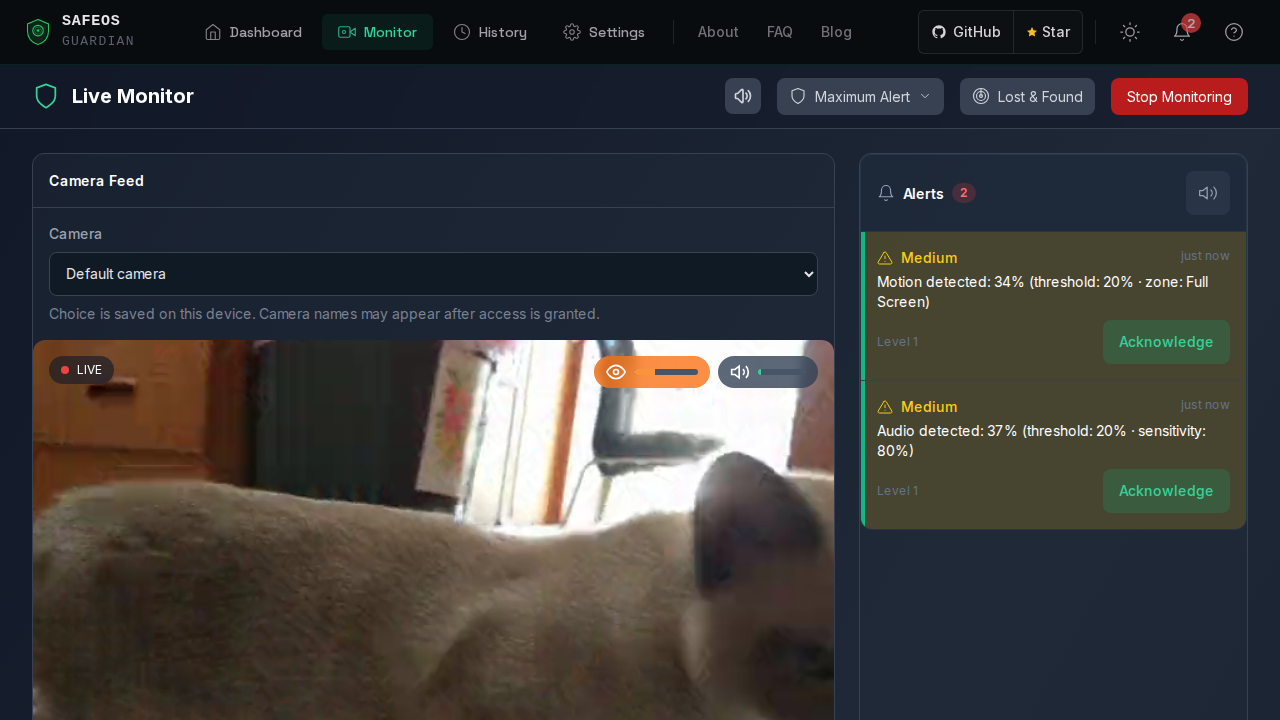
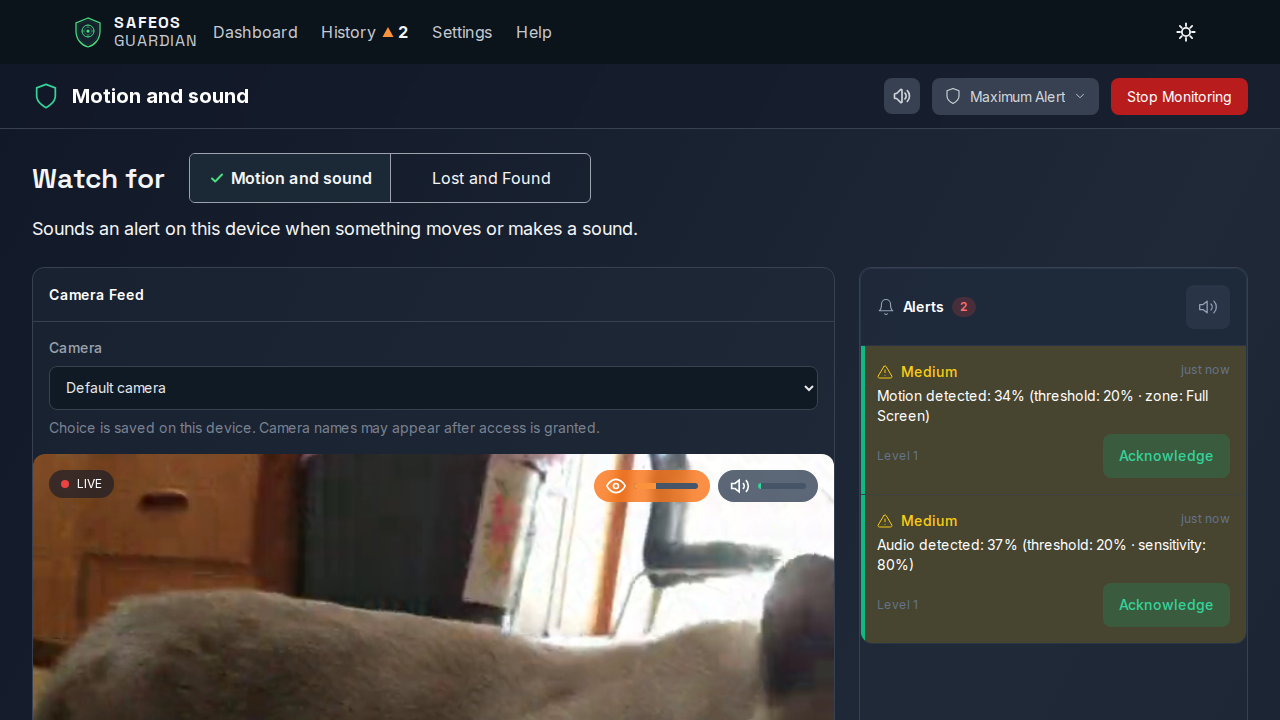
Pictures of the app's frame and the dashboard from Pictures run 44812089983

diff --git a/docs/pictures/pr-30/README.md b/docs/pictures/pr-30/README.md
@@ -1,0 +1,41 @@
+# The app's frame and the dashboard
+
+Both folders come from [Pictures run 44812089983](https://github.com/framerslab/safeos/actions/runs/44812089983) of commit 3c47d4fe8ccdbc7f8123a3cfa34f4731061cb680 and the base commit f65010dcdc2200a55507842afbd21e342e7ef901: `after/` from the run's `pictures` artifact and `before/` from its `pictures-before` artifact, each file copied byte for byte under the name the run gave it.
+
+A picture of a whole page on a phone shows the phone bar where the first screen ends, 844 px down, since the bar stays at the foot of the screen.
+
+`before/`, the base commit:
+
+- `dashboard-setup-390-light.png`: the dashboard before, 390 px, light: the number tiles, Quick Actions, the streams and system panels, under the old header and phone bar.
+- `dashboard-setup-390-dark.png`: the dashboard before, 390 px, dark.
+- `dashboard-setup-1280-light.png`: the dashboard before, 1280 px, light.
+- `dashboard-setup-1280-dark.png`: the dashboard before, 1280 px, dark.
+- `history-390-light.png`: History before, 390 px, light: the old header with the bell and the menu, and the old phone bar of Home, Monitor, History and Settings.
+- `history-1280-dark.png`: History before, 1280 px, dark: the old header with its GitHub key, the bell and the "?" key.
+- `settings-390-light.png`: Settings before, 390 px, light: the page starts at its own heading.
+- `monitor-1280-dark.png`: Motion and sound before, 1280 px, dark: the page's strip carries no name.
+
+`after/`, this pull request:
+
+- `dashboard-setup-390-light.png`: the dashboard after, 390 px, light: Not watching, Start watching, the four ways and the phone bar.
+- `dashboard-setup-390-dark.png`: the dashboard after, 390 px, dark: Not watching, Start watching, the four ways and the phone bar.
+- `dashboard-setup-1280-light.png`: the dashboard after, 1280 px, light: Not watching and Start watching beside the four ways under the app's header, and "Nothing new since you last looked." below them.
+- `dashboard-setup-1280-dark.png`: the dashboard after, 1280 px, dark: Not watching and Start watching beside the four ways under the app's header, and "Nothing new since you last looked." below them.
+- `history-390-light.png`: the app's header and phone bar on History, 390 px, light.
+- `history-1280-dark.png`: the app's header on History, 1280 px, dark.
+- `settings-390-light.png`: Settings, 390 px, light: the look row and the Help row first.
+- `monitor-1280-dark.png`: the page headed Motion and sound, 1280 px, dark.
+- `dashboard-first-390-light.png`: the dashboard's first screen on a phone, 390 by 844 px, light: Not watching, Start watching, the notice and the four ways above the phone bar.
+- `dashboard-alerts-390-light.png`: four new alerts: the sentence under Not watching, History 4 in the phone bar, 390 px, light.
+- `dashboard-alerts-1280-dark.png`: the alerts across the desktop's twelve columns, 1280 px, dark.
+- `dashboard-new-390-dark.png`: a device before setup with Start setup, 390 px, dark.
+- `dashboard-camera-blocked-390-light.png`: the camera blocked with How to allow the camera, 390 px, light.
+- `dashboard-waiting-390-dark.png`: the key while the camera starts, 390 px, dark.
+- `dashboard-layout-820-light.png`: the tablet's single column and two-by-two ways, with six new alerts, 820 px, light.
+- `dashboard-layout-1920-light.png`: the wide layout's three columns, with six new alerts, 1920 px, light.
+- `header-more-820-light.png`: More at 200 per cent text, open with Settings and Help under it, 820 px, light.
+- `settings-rows-390-dark.png`: the look row and the Help row at the top of Settings' first screen on a phone, 390 by 844 px, dark.
+- `other-tab-dialog-390-light.png`: the second-watch question, "Watch here instead? The other tab stops.", 390 px, light.
+- `offline-page-1280-dark.png`: the offline page, 1280 px, dark.
+- `forward-tutorial-1280-light.png`: the old tip walk's address with scripts off, 1280 px, light: "Getting started is in Help." and Open help.
+- `frame-scripts-off-1280-light.png`: History with scripts off, 1280 px, light: the app's header and the site's footer.
